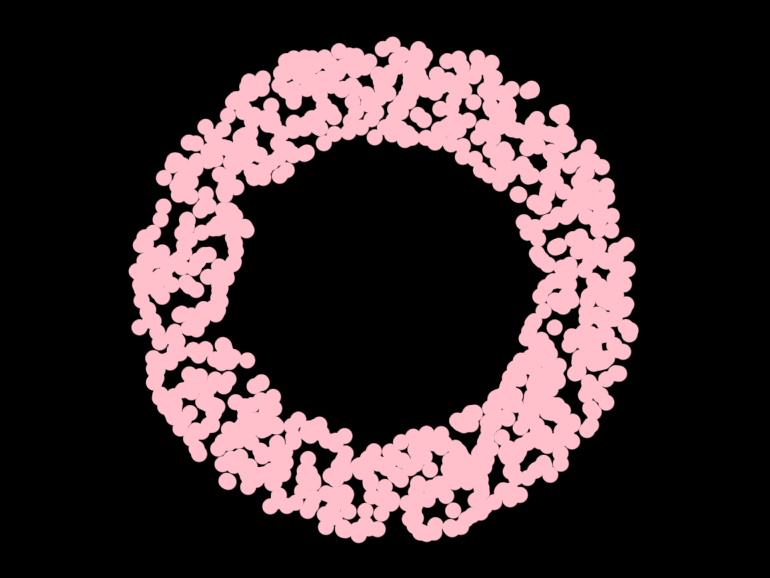
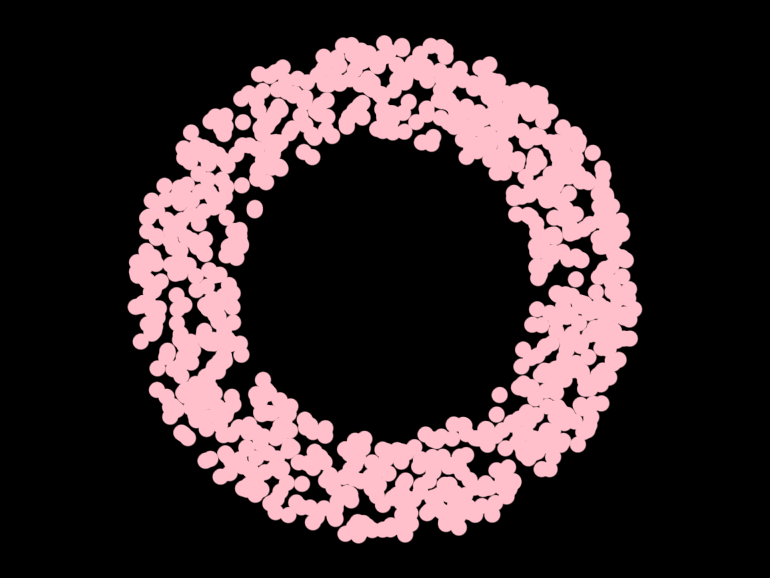
Update docs

Changed region(s): [[0.1558, 0.0623, 0.8416, 0.9343]]

diff --git a/docs/11_Advanced_Topics/C05_Lowlevel_drawing.md b/docs/11_Advanced_Topics/C05_Lowlevel_drawing.md
@@ -1,0 +1,81 @@
+
+# Lowlevel Drawing
+
+This text is intended for developers looking to provide drawing functionality that is fully independent of 
+the `Drawer` class. Developers that desire to do so will essentially use the same building blocks that OPENRNDR
+uses internally.
+    
+A good reference for lowlevel drawing is the `Filter` class and it is encouraged to look at its [source code](https://github.com/openrndr/openrndr/blob/master/openrndr-core/src/main/kotlin/org/openrndr/draw/Filter.kt)
+as it provides a good idea of how all the lowlevel components interact and its implementation is fully independent from
+`Drawer`.
+    
+All lowlevel drawing is performed using OPENRNDR's `Driver` class. This class provides a handful of functions for
+drawing. Below you will find a list of the essential ones.
+ * `Drawer.setState()`    
+ * `Drawer.drawVertexBuffer()`
+ * `Drawer.drawIndexedVertexBuffer()`        
+ * `Drawer.drawInstances()`
+ * `Drawer.drawIndexedInstances()`
+ 
+Classes that belong to the lowlevel drawing API:
+ * [`Shader`](https://api.openrndr.org/org.openrndr.draw/-shader/index.html)
+ * [`IndexBuffer`](https://api.openrndr.org/org.openrndr.draw/-index-buffer/index.html)
+ * [`VertexBuffer`](https://api.openrndr.org/org.openrndr.draw/-vertex-buffer/index.html)
+ * [`VertexFormat`](https://api.openrndr.org/org.openrndr.draw/-vertex-format/index.html)
+ * [`ColorBuffer`](https://api.openrndr.org/org.openrndr.draw/-color-buffer/index.html)
+ * [`DepthBuffer`](https://api.openrndr.org/org.openrndr.draw/-depth-buffer/index.html)
+ * [`ArrayTexture`](https://api.openrndr.org/org.openrndr.draw/-array-texture/index.html)
+ * [`CubeMap`](https://api.openrndr.org/org.openrndr.draw/-cubemap/index.html)
+ * [`DrawStyle`](https://api.openrndr.org/org.openrndr.draw/-draw-style/index.html)
+ * [`RenderTarget`](https://api.openrndr.org/org.openrndr.draw/-render-target/index.html)
+
+We discourage writing code that uses OpenGL directly; even though currently only an OpenGL 3.3 implementation exists 
+for `Driver`, in the future we may add implementations that are not based on OpenGL.      
+
+## Example
+        
+In the following example we show the minimum steps required for drawing a single triangle.        
+
+<img src="media/lowlevel-drawing-001.png"/>
+
+```kotlin
+program {
+    val geometry = vertexBuffer(vertexFormat {
+        position(3) // -- this attribute is named "position"
+    }, 3)
+    
+    geometry.put {
+        for (i in 0 until geometry.vertexCount) {
+            write(Vector3(2.0 * Math.random() - 1.0, 2.0 * Math.random() - 1.0, 0.0))
+        }
+    }
+    
+    // -- code for the vertex shader
+    val vs = """
+            #version 330                
+            in vec3 a_position;  // -- driver adds a_ prefix (a for attribute)
+            void main() {
+                gl_Position = vec4(a_position, 1.0);                
+            }
+            """
+    
+    // -- code for the fragment shader
+    val fs = """
+            #version 330
+            out vec4 o_output;
+            void main() {
+                o_output = vec4(1.0);                                                                                                                
+            }                                                                
+            """
+    
+    val shader = Shader.createFromCode(vs, fs)
+    
+    extend {
+        shader.begin()
+        Driver.instance.drawVertexBuffer(shader, listOf(geometry), DrawPrimitive.TRIANGLES, 0, 3)
+        shader.end()
+    }
+}
+```
+
+[Link to the full example](https://github.com/openrndr/openrndr-examples/blob/master/src/main/kotlin/examples/11_Advanced_Topics/C05_Lowlevel_drawing000.kt)

diff --git a/docs/_sidebar.md b/docs/_sidebar.md
@@ -50,6 +50,7 @@
   - [Presentation Control](11_Advanced_Topics/C02_Presentation_Control.md)
   - [Writing extensions](11_Advanced_Topics/C03_Writing_extensions.md)
   - [Headless applications](11_Advanced_Topics/C04_Headless_applications.md)
+  - [Lowlevel drawing](11_Advanced_Topics/C05_Lowlevel_drawing.md)
 - Developers & Contributors
   - [Building from source](12_Developers_&_Contributors/C00_Building_from_source.md)
   - [Overview of OPENRNDR modules](12_Developers_&_Contributors/C01_Overview_of_OPENRNDR_modules.md)

diff --git a/docs/10_OPENRNDR_Extras/C01_Noise.md b/docs/10_OPENRNDR_Extras/C01_Noise.md
@@ -39,7 +39,6 @@ application {
             drawer.fill = ColorRGBa.PINK
             drawer.stroke = null
             drawer.translate(width / 2.0, height / 2.00)
-            
             for (i in 0 until 1000) {
                 drawer.circle(Vector2.uniformRing(150.0, 250.0), 10.0)
             }
